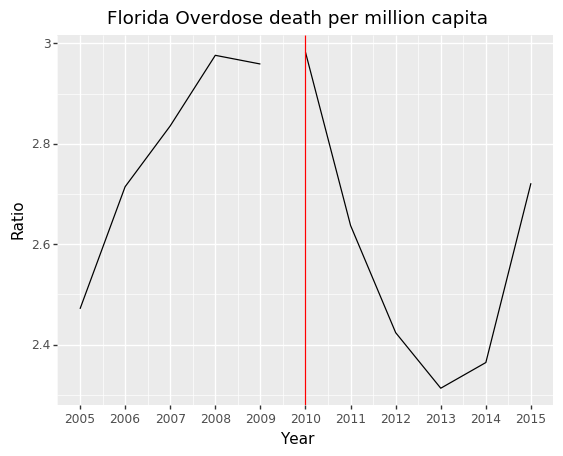
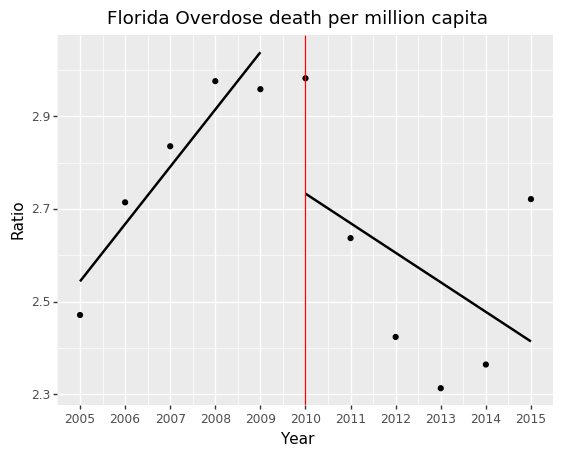
New version of plots

diff --git a/20_intermediate_files/MortPop_plot.py b/20_intermediate_files/MortPop_plot.py
@@ -32,8 +32,10 @@ after_policy_aggr
 
 
 fl_plot = (ggplot() +
-    geom_line(before_policy_aggr, aes(x='Year', y='Ratio')) +
-    geom_line(after_policy_aggr, aes(x='Year', y='Ratio')) +
+    geom_point(before_policy_aggr, aes(x='Year', y='Ratio')) +
+    geom_point(after_policy_aggr, aes(x='Year', y = 'Ratio')) +
+    geom_smooth(before_policy_aggr, aes(x='Year', y='Ratio'), method = 'lm', level = 0) +
+    geom_smooth(after_policy_aggr, aes(x='Year', y='Ratio'), method = 'lm', level = 0) +
     scale_x_continuous(breaks = range(2005, 2016)) +
     ggtitle("Florida Overdose death per million capita") +
     geom_vline(xintercept=2010, colour="red"))
@@ -71,8 +73,10 @@ wa_after_policy_aggr
 
 
 wa_plot = (ggplot() +
-    geom_line(wa_before_policy_aggr, aes(x='Year', y='Ratio')) +
-    geom_line(wa_after_policy_aggr, aes(x='Year', y='Ratio')) +
+    geom_point(wa_before_policy_aggr, aes(x='Year', y='Ratio')) +
+    geom_point(wa_after_policy_aggr, aes(x='Year', y = 'Ratio')) +
+    geom_smooth(wa_before_policy_aggr, aes(x='Year', y='Ratio'), method = 'lm', level = 0) +
+    geom_smooth(wa_after_policy_aggr, aes(x='Year', y='Ratio'), method = 'lm', level = 0) +
     scale_x_continuous(breaks = range(2007, 2018)) +
     ggtitle("Washington Overdose death per million capita") +
     geom_vline(xintercept=2012, colour="red"))
@@ -111,8 +115,10 @@ tx_after_policy_aggr
 
 
 tx_plot = (ggplot() +
-    geom_line(tx_before_policy_aggr, aes(x='Year', y='Ratio')) +
-    geom_line(tx_after_policy_aggr, aes(x='Year', y='Ratio')) +
+    geom_point(tx_before_policy_aggr, aes(x='Year', y='Ratio')) +
+    geom_point(tx_after_policy_aggr, aes(x='Year', y = 'Ratio')) +
+    geom_smooth(tx_before_policy_aggr, aes(x='Year', y='Ratio'), method = 'lm', level = 0) +
+    geom_smooth(tx_after_policy_aggr, aes(x='Year', y='Ratio'), method = 'lm', level = 0) +
     scale_x_continuous(breaks = range(2003, 2012)) +
     ggtitle("Texas Overdose death per million capita") +
     geom_vline(xintercept=2007, colour="red") )
